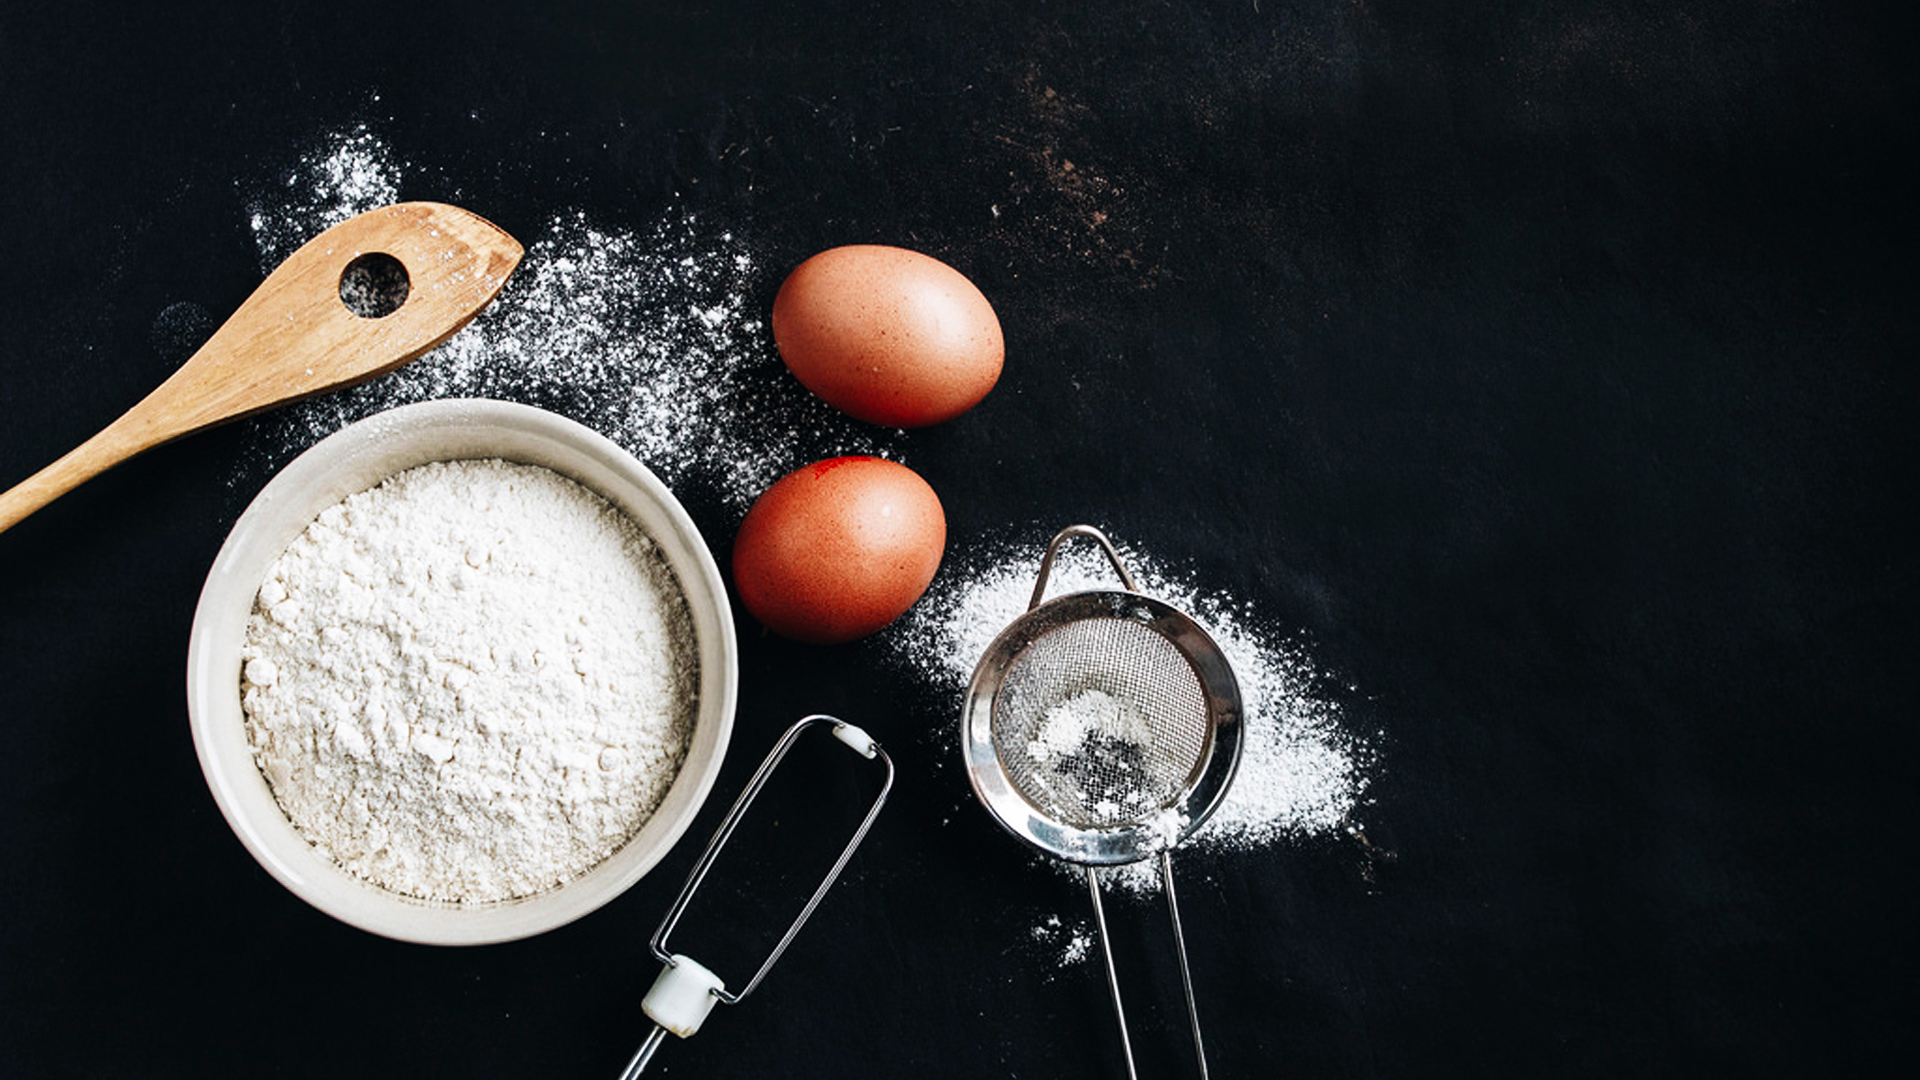
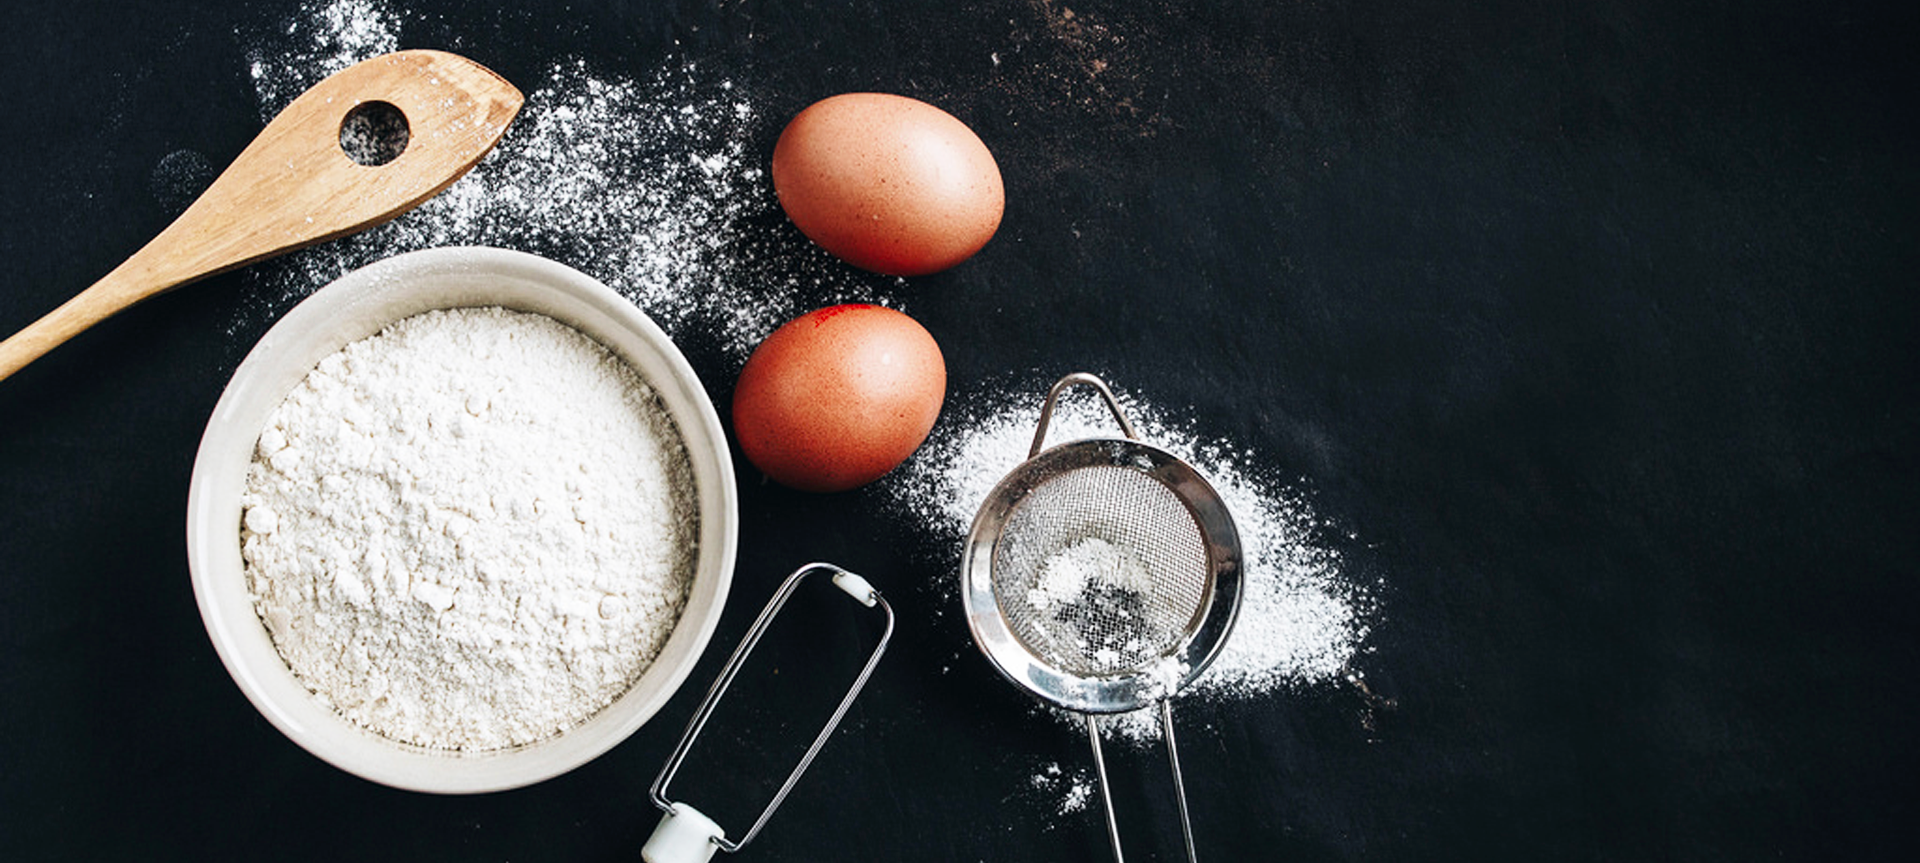
added slogan and header image

diff --git a/src/header/Header.js b/src/header/Header.js
@@ -1,25 +1,16 @@
 import React, { Component } from 'react';
 import '../header/Header.css';
-import search from '../assets/magnifier.png';
+import supplies from '../assets/header-image.jpg';
 
 class Header extends Component {
     render() {
         return(
-            <div>
-                <header className="site-header">
-                    <h1 className="site-title">
-                        YOUR CUP OF <span className="sugar">
-                            sugar
-                        </span>
-                    </h1>
-                    <div className="search">
-                        <input type="text" placeholder="Search..." />
-                        <a href="/">
-                            <img className="search-image" src={search} alt="search"/>
-                        </a>
-                    </div>
-                </header>
-            </div>
+            <header>
+                 <span className="slogan">
+                    "Your next recipe is just one sift away..."
+                </span>
+                <img className="header-image" src={supplies} alt="baking supplies" />
+            </header>
         )
     }
 }

diff --git a/src/nav/Nav.js b/src/nav/Nav.js
@@ -1,0 +1,33 @@
+import React, { Component } from 'react';
+import '../nav/Nav.css';
+import search from '../assets/magnifier.png';
+
+class Nav extends Component {
+    render() {
+        return(
+            <div>
+                <nav className="navbar">
+                    <h1 className="site-title">
+                        YOUR CUP OF <span className="sugar">
+                            sugar
+                        </span>
+                    </h1>
+                    <ul class="links">
+                        <li>home</li>
+                        <li>recipes</li>
+                        <li>community</li>
+                        <li>careers</li>
+                    </ul>
+                    <div className="search">
+                        <input type="text" placeholder="Search..." />
+                        <a href="/">
+                            <img className="search-image" src={search} alt="search"/>
+                        </a>
+                    </div>
+                </nav>
+            </div>
+        )
+    }
+}
+
+export default Nav;

diff --git a/src/header/Header.css b/src/header/Header.css
@@ -1,38 +1,17 @@
-h1.site-title {
-    font-size: 1.5vw;
-    color: #d5ecd4;
-    padding: 0 0 0 1em;
-    margin-left: 2em;
-    margin-top: -.05em;
-}
-
-span.sugar {
-    font-family: 'dancing script', cursive;
-    font-size: 1.7em;
-    color: #f9f8f8;
-    margin-left: .1em;
-}
-
-header.site-header {
+img.header-image {
     position: absolute;
-    display: flex;
     width: 100%;
-    background-color: #9ec49e;
-    justify-content: space-between;
-    align-items: center;
     left: 0;
-    top: 0;
+    top: -2vw;
+    z-index: -1;
 }
 
-div.search input[type="text"] {
-    outline: none;
-    border: none;
-    border-radius: .5em;
-    margin-right: 1em;
-    padding: .5em;
-    width: 70%;
-}
-
-img.search-image {
-    width: 4%;
+span.slogan {
+    position: absolute;
+    width: 50%;
+    right: -10vw;
+    margin-top: 20vw;
+    font-family: 'dancing script';
+    font-size: 2.5vw;
+    color: #EDEDEC;
 }

diff --git a/src/nav/Nav.css b/src/nav/Nav.css
@@ -1,0 +1,50 @@
+h1.site-title {
+    font-size: 1.5vw;
+    color: #E7B690;
+    padding: 0 0 0 1em;
+    margin-left: 2em;
+    margin-top: -.05em;
+}
+
+span.sugar {
+    font-family: 'dancing script', cursive;
+    font-size: 1.7em;
+    color: #EDEDEC;
+    margin-left: .1em;
+}
+
+nav.navbar {
+    position: absolute;
+    display: flex;
+    width: 100%;
+    background-color: #192025;
+    justify-content: space-between;
+    align-items: center;
+    left: 0;
+    top: 0;
+}
+
+div.search input[type="text"] {
+    background-color: #EDEDEC;
+    outline: none;
+    border: none;
+    border-radius: .5em;
+    margin-right: 1em;
+    padding: .5em;
+    width: 70%;
+}
+
+img.search-image {
+    width: 4%;
+}
+
+ul.links {
+    display: flex;
+    list-style: none;
+    text-transform: uppercase;
+}
+
+ul.links li {
+    margin-right: 5vw;
+    color: #EDEDEC;
+}

diff --git a/src/main-page/MainPage.js b/src/main-page/MainPage.js
@@ -3,6 +3,7 @@ import React, { Component } from 'react';
 import Media from 'react-media';
 
 // components
+import Nav from '../nav/Nav.js';
 import Header from '../header/Header.js';
 
 class MainPage extends Component {
@@ -14,7 +15,10 @@ class MainPage extends Component {
                         matches ? (
                             <h1>the screen is 480px wide or less</h1>
                         ) : (
-                            <Header />
+                            <div>
+                                <Nav />
+                                <Header />
+                            </div>
                         )
                     }
                 </Media>

diff --git a/src/App.css b/src/App.css
@@ -1,7 +1,8 @@
 @import url('https://fonts.googleapis.com/css?family=Dancing+Script|Roboto|Staatliches');
 
 body {
-  background-image: url('../src/assets/wood.png');
+  background-color: #0C1418;
+  /* background-image: url('../src/assets/wood.png'); */
   font-family: 'Roboto', sans-serif;
 }
 
